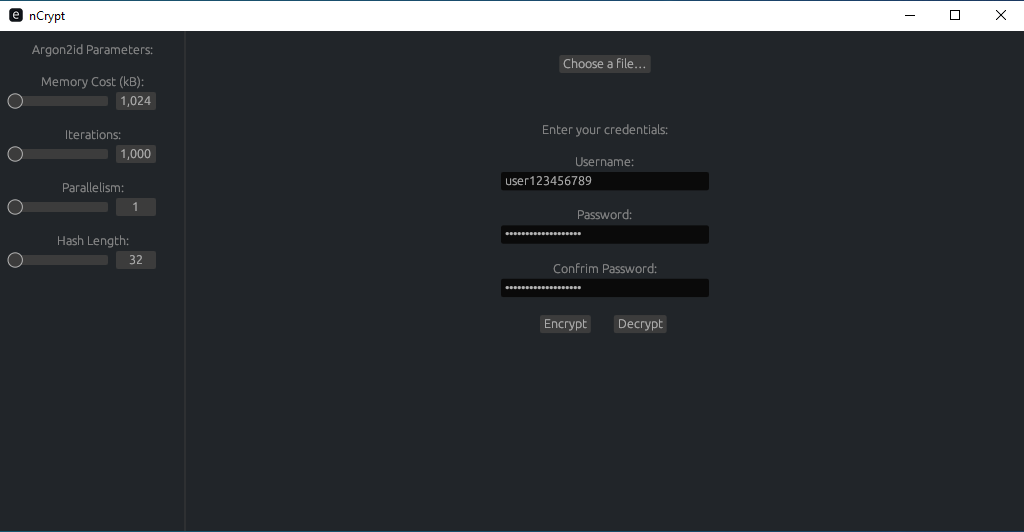
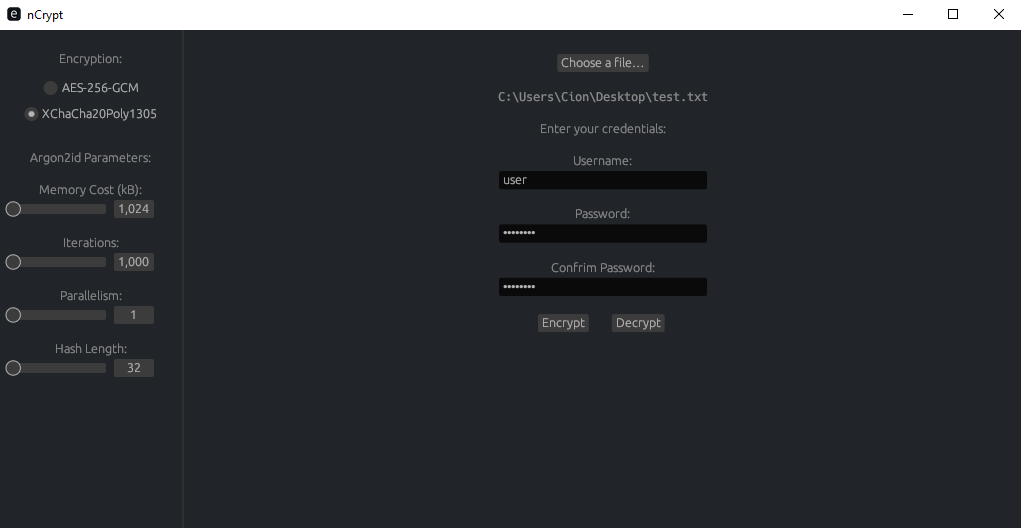
update readme

diff --git a/readme.md b/readme.md
@@ -1,7 +1,6 @@
-
 # nCrypt-rs
 
-A simple GUI App to safely encrypt any file
+### A simple GUI App to safely encrypt any file
 
 
 ![Screenshot](src/img/app.png)
@@ -9,7 +8,10 @@ A simple GUI App to safely encrypt any file
 
 ## How it works
 
-Files are encrypted with [AES-GCM](https://github.com/RustCrypto/AEADs/tree/master/aes-gcm) Authenticated Encryption.
+Files are encrypted with one of the following [AEADs](https://github.com/RustCrypto/AEADs)
+
+- [AES-GCM](https://github.com/RustCrypto/AEADs/tree/master/aes-gcm)
+- [XChaCha20Poly1305](https://github.com/RustCrypto/AEADs/tree/master/chacha20poly1305)
 
 The encryption key is derived from the password hash we generate using the [Argon2id](https://github.com/RustCrypto/password-hashes/blob/master/argon2) hashing alogrithm.
 
@@ -24,7 +26,7 @@ Some Text
 
 It will look like this:
 ```
-qú·²·ͦ´²<¯}ůnnCrypt_Params{"file_name":"C:\\Users\\User\\Desktop\\test.txt","hash_length":64,"m_cost":3200,"p_cost":6,"t_cost":10000}
+TÂt¼^oóïúéÏ@Éz52Ø«ï’XcI`nCrypt_Params{"encryption":"XChaCha20Poly1305","file_name":"test.txt","hash_length":64,"m_cost":3600,"p_cost":5,"t_cost":4300}
 ```
 
 ## Build From Source
